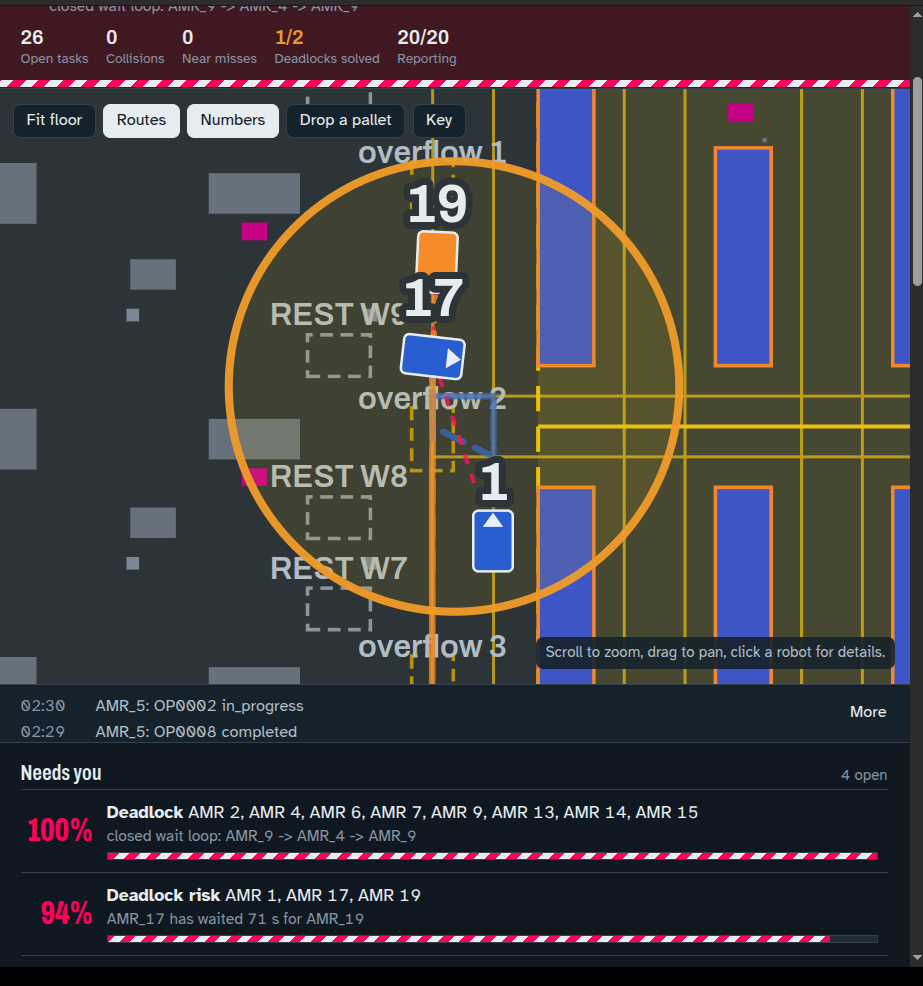
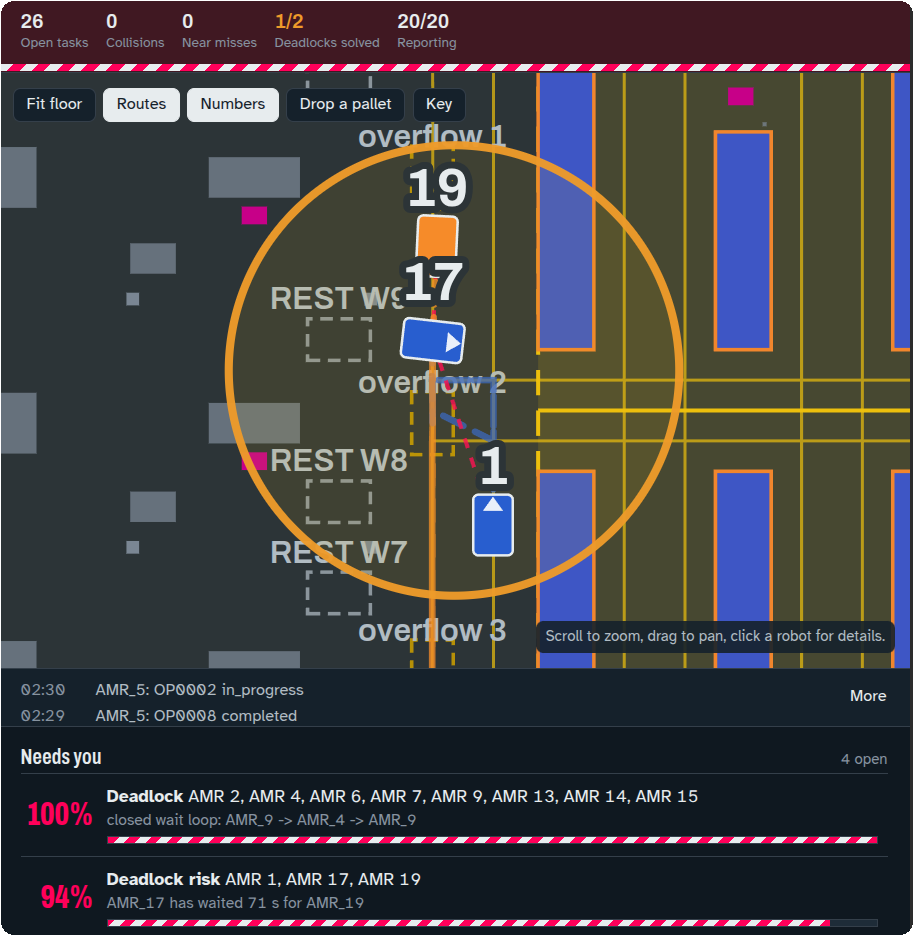
docs: tighten the three screenshots and give them room in the README
Cropped each to its subject and dropped the surrounding chrome: RViz to
the 3D viewport (no Displays/Views panels, no dead black margin), Gazebo
to the warehouse interior (no empty sky, no playback buttons), the
console to the KPI strip through the incident feed (no clipped line,
scrollbar or dead strip). Each now carries rounded corners and a
hairline border in its alpha channel.

Replaces the lopsided two-column table - the three images have very
different aspect ratios - with the RViz hero up top and a "The
simulation" section holding the other two at readable widths.

diff --git a/README.md b/README.md
@@ -3,15 +3,10 @@
 **Edge-AI decentralised fleet coordination for autonomous mobile robots in smart warehouses.**
 
 <p align="center">
-  <img src="docs/images/rviz.png" alt="RViz showing the 20-robot fleet, its lanes and space-time claims" width="900">
+  <img src="docs/images/rviz.png" alt="RViz showing the 20-robot fleet, its lanes and space-time claims" width="880">
   <br>
   <em>RViz: the full fleet mid-run &mdash; occupancy map, lane network, per-robot routes, space-time claims and live lidar scans.</em>
 </p>
-
-| Gazebo Harmonic | Web operator console |
-|---|---|
-| <img src="docs/images/gazebo.png" alt="The NRDS warehouse in Gazebo Harmonic" width="430"> | <img src="docs/images/console.png" alt="The NRDA fleet console showing KPIs and a deadlock alert" width="430"> |
-| The NRDS warehouse the fleet drives: inbound docks, conveyor lines and the marked lane network. | Live KPIs, the fleet map and the incident feed &mdash; here flagging a closed wait loop and a three-robot deadlock risk. |
 
 Twenty AMR-01 tote transporters (`AMR_1` … `AMR_20`) work the NRDS warehouse in Gazebo Harmonic and RViz.
 - Each robot runs its own edge agent, and there is no central planner.
@@ -21,6 +16,20 @@ Twenty AMR-01 tote transporters (`AMR_1` … `AMR_20`) work the NRDS warehouse i
 Operators watch the fleet, count collisions and release tasks from a web console.
 
 The coordination algorithm is **NRDA-FA**: a five-layer onboard stack covering task and health, allocation, routing with space-time reservation, local coordination, and motion with safety. See [`docs/FINAL_ALGORITHM.md`](docs/FINAL_ALGORITHM.md) for the specification and [`docs/FINAL_AUDIT.md`](docs/FINAL_AUDIT.md) for every algorithm with its published source and mathematics.
+
+## The simulation
+
+<p align="center">
+  <img src="docs/images/gazebo.png" alt="The NRDS warehouse in Gazebo Harmonic" width="820">
+  <br>
+  <em>Gazebo Harmonic &mdash; the warehouse the fleet actually drives: inbound docks, conveyor lines, racking and the marked lane network.</em>
+</p>
+
+<p align="center">
+  <img src="docs/images/console.png" alt="The fleet console showing live KPIs and two deadlock incidents" width="660">
+  <br>
+  <em>The web operator console &mdash; live KPIs, the fleet map and the incident feed, here holding a closed wait loop at 100 % and a three-robot deadlock risk at 94 %.</em>
+</p>
 
 ## Quick start
 
